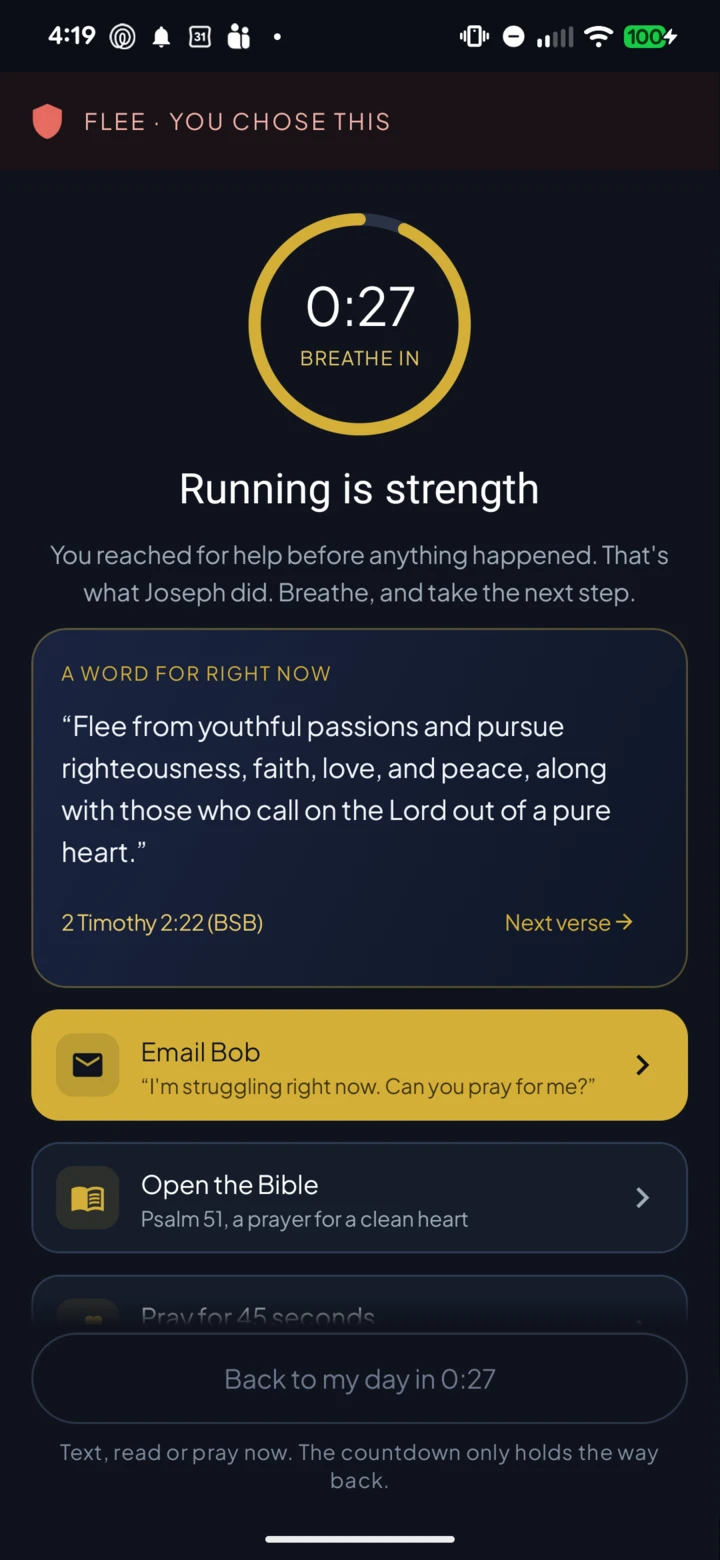
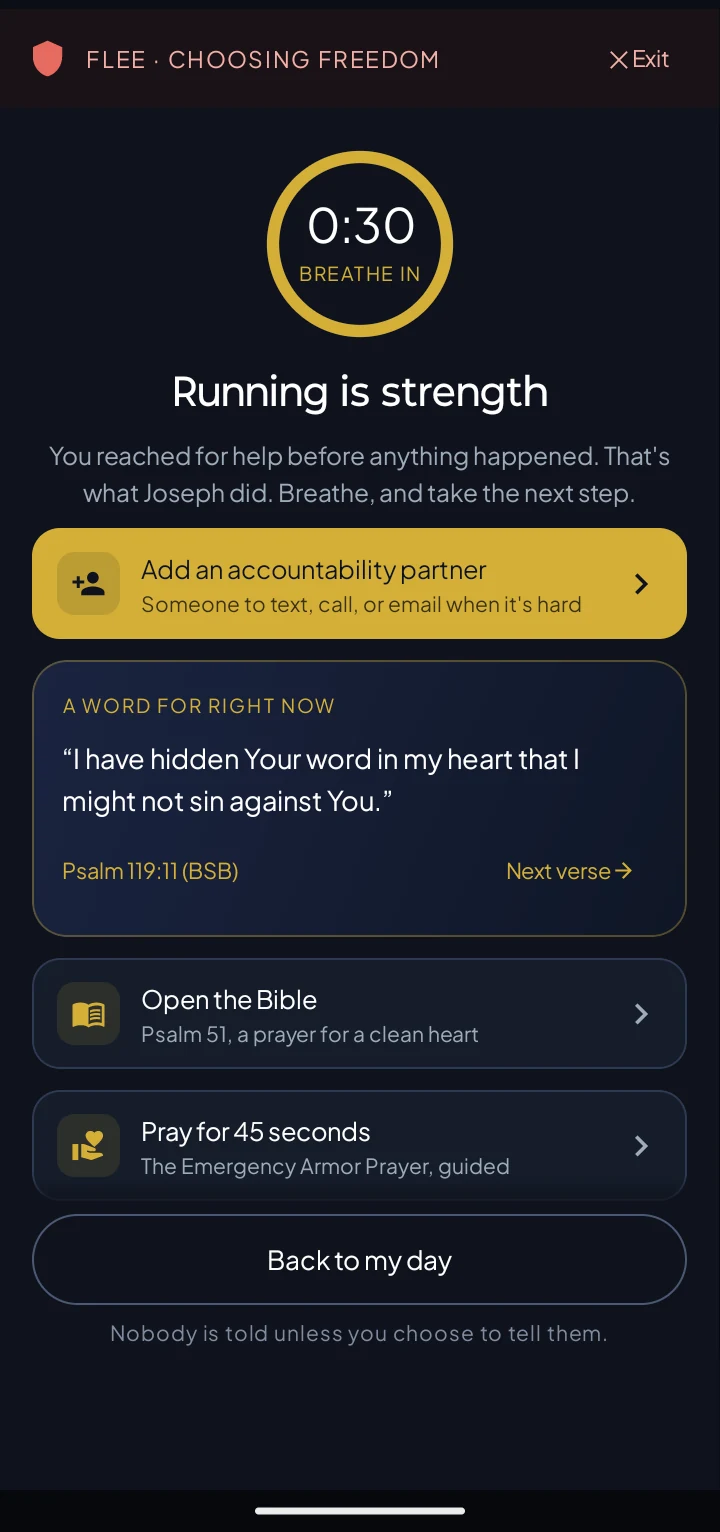
feat: showcase dual calm tech themes, 72h grace window, and status-bar-free mockups

diff --git a/index.html b/index.html
@@ -318,6 +318,48 @@
       height: 100%;
       object-fit: cover;
       object-position: top;
+      transition: opacity 0.25s ease;
+    }
+
+    /* Hero Theme Toggle */
+    .hero-theme-toggle {
+      display: inline-flex;
+      align-items: center;
+      gap: 6px;
+      background: rgba(15, 23, 42, 0.85);
+      border: 1px solid var(--border-color);
+      border-radius: 999px;
+      padding: 4px;
+      margin-bottom: 16px;
+      backdrop-filter: blur(8px);
+      box-shadow: 0 4px 16px rgba(0, 0, 0, 0.4);
+    }
+
+    .theme-pill {
+      display: inline-flex;
+      align-items: center;
+      gap: 6px;
+      padding: 6px 14px;
+      background: transparent;
+      border: 1px solid transparent;
+      border-radius: 999px;
+      color: var(--text-muted);
+      font-size: 0.82rem;
+      font-weight: 600;
+      cursor: pointer;
+      transition: all 0.2s ease;
+      font-family: var(--font-sans);
+    }
+
+    .theme-pill:hover {
+      color: var(--text-main);
+    }
+
+    .theme-pill.active {
+      background: var(--accent-gold-glow);
+      border-color: var(--border-glow);
+      color: var(--accent-gold-light);
+      box-shadow: 0 2px 8px rgba(245, 158, 11, 0.25);
     }
 
     /* Floating Stat Card */
@@ -948,6 +990,10 @@
             <svg width="18" height="18" viewBox="0 0 24 24" fill="currentColor"><path d="M12 2C6.48 2 2 6.48 2 12s4.48 10 10 10 10-4.48 10-10S17.52 2 12 2zm-2 15l-5-5 1.41-1.41L10 14.17l7.59-7.59L19 8l-9 9z"/></svg>
             <span>Accountability with a trusted friend</span>
           </div>
+          <div class="trust-badge-item">
+            <svg width="18" height="18" viewBox="0 0 24 24" fill="currentColor"><path d="M12 2C6.48 2 2 6.48 2 12s4.48 10 10 10 10-4.48 10-10S17.52 2 12 2zm-2 15l-5-5 1.41-1.41L10 14.17l7.59-7.59L19 8l-9 9z"/></svg>
+            <span>Dual Calm Tech Themes (Dark &amp; Light)</span>
+          </div>
         </div>
       </div>
 
@@ -960,9 +1006,20 @@
           <p>90 min of scrolling is enough time to read Romans and 1 Corinthians</p>
         </div>
 
-        <div class="phone-frame">
-          <div class="phone-notch"></div>
-          <img width="720" height="1488" src="assets/images/app-today.webp" alt="The Today screen: a greeting, a daily encouragement and Ephesians 5:15–17">
+        <div style="display: flex; flex-direction: column; align-items: center; z-index: 1;">
+          <div class="hero-theme-toggle" role="tablist" aria-label="Select app theme preview">
+            <button type="button" class="theme-pill active" id="theme-btn-dark" onclick="setHeroTheme('dark')">
+              🌙 Obsidian Dark
+            </button>
+            <button type="button" class="theme-pill" id="theme-btn-light" onclick="setHeroTheme('light')">
+              ☀ Warm Parchment
+            </button>
+          </div>
+
+          <div class="phone-frame">
+            <div class="phone-notch"></div>
+            <img id="hero-mockup-img" width="720" height="1532" src="assets/images/app-today.webp" alt="The Today screen: a greeting, a daily encouragement and Ephesians 5:15–17">
+          </div>
         </div>
 
         <div class="floating-card card-bottom">
@@ -1027,6 +1084,10 @@
           <ul class="feature-checklist">
             <li>
               <svg width="20" height="20" viewBox="0 0 24 24" fill="currentColor"><path d="M12 2C6.48 2 2 6.48 2 12s4.48 10 10 10 10-4.48 10-10S17.52 2 12 2zm-2 15l-5-5 1.41-1.41L10 14.17l7.59-7.59L19 8l-9 9z"/></svg>
+              <span><strong>Calm Tech Light &amp; Dark:</strong> seamlessly switch between Obsidian Dark for peaceful evening wind-downs and Warm Parchment Light for glare-free daytime reading that looks and feels like a physical paper Bible.</span>
+            </li>
+            <li>
+              <svg width="20" height="20" viewBox="0 0 24 24" fill="currentColor"><path d="M12 2C6.48 2 2 6.48 2 12s4.48 10 10 10 10-4.48 10-10S17.52 2 12 2zm-2 15l-5-5 1.41-1.41L10 14.17l7.59-7.59L19 8l-9 9z"/></svg>
               <span><strong>Honest numbers:</strong> based on real Bible reading times, never more than the time you actually spent.</span>
             </li>
             <li>
@@ -1057,11 +1118,15 @@
           <ul class="feature-checklist">
             <li>
               <svg width="20" height="20" viewBox="0 0 24 24" fill="currentColor"><path d="M12 2C6.48 2 2 6.48 2 12s4.48 10 10 10 10-4.48 10-10S17.52 2 12 2zm-2 15l-5-5 1.41-1.41L10 14.17l7.59-7.59L19 8l-9 9z"/></svg>
-              <span><strong>Check-in schedule:</strong> weekly, every other week or monthly, added to your calendar so you both remember.</span>
+              <span><strong>Check-in schedule &amp; calendar:</strong> weekly, every other week or monthly, exported directly to your device calendar so you both remember.</span>
             </li>
             <li>
               <svg width="20" height="20" viewBox="0 0 24 24" fill="currentColor"><path d="M12 2C6.48 2 2 6.48 2 12s4.48 10 10 10 10-4.48 10-10S17.52 2 12 2zm-2 15l-5-5 1.41-1.41L10 14.17l7.59-7.59L19 8l-9 9z"/></svg>
-              <span><strong>Private prep notes:</strong> jot down victories, HALT moments (hungry, angry, lonely, tired) and prayer needs. They stay on your phone.</span>
+              <span><strong>72-Hour Grace Window:</strong> if your meeting is delayed, active prep notes stay accessible with a 72-hour grace window to mark <em>✓ Yes, We Met</em> or reschedule (+3 days) before archiving.</span>
+            </li>
+            <li>
+              <svg width="20" height="20" viewBox="0 0 24 24" fill="currentColor"><path d="M12 2C6.48 2 2 6.48 2 12s4.48 10 10 10 10-4.48 10-10S17.52 2 12 2zm-2 15l-5-5 1.41-1.41L10 14.17l7.59-7.59L19 8l-9 9z"/></svg>
+              <span><strong>1-on-1 &amp; Small Groups:</strong> organize private prep notes (victories, HALT moments, prayer requests) for individual partners or small group accountability fellowships.</span>
             </li>
             <li>
               <svg width="20" height="20" viewBox="0 0 24 24" fill="currentColor"><path d="M12 2C6.48 2 2 6.48 2 12s4.48 10 10 10 10-4.48 10-10S17.52 2 12 2zm-2 15l-5-5 1.41-1.41L10 14.17l7.59-7.59L19 8l-9 9z"/></svg>
@@ -1069,7 +1134,7 @@
             </li>
             <li>
               <svg width="20" height="20" viewBox="0 0 24 24" fill="currentColor"><path d="M12 2C6.48 2 2 6.48 2 12s4.48 10 10 10 10-4.48 10-10S17.52 2 12 2zm-2 15l-5-5 1.41-1.41L10 14.17l7.59-7.59L19 8l-9 9z"/></svg>
-              <span><strong>Openness, not spying:</strong> once your partner accepts an invite, they get a short email for a few set events, for example if you turn a protection off or allow a website. Nothing else is shared.</span>
+              <span><strong>Openness, not spying:</strong> once your partner accepts an invite, they get a short email for a few set events, for example if you turn a protection off or allow a website. FLEE never emails partners.</span>
             </li>
           </ul>
         </div>
@@ -1100,6 +1165,10 @@
             <li>
               <svg width="20" height="20" viewBox="0 0 24 24" fill="currentColor"><path d="M12 2C6.48 2 2 6.48 2 12s4.48 10 10 10 10-4.48 10-10S17.52 2 12 2zm-2 15l-5-5 1.41-1.41L10 14.17l7.59-7.59L19 8l-9 9z"/></svg>
               <span><strong>Curated &amp; Custom Plans:</strong> follow 5 popular reading plans or build your own with quiet time reminders and daily pacing.</span>
+            </li>
+            <li>
+              <svg width="20" height="20" viewBox="0 0 24 24" fill="currentColor"><path d="M12 2C6.48 2 2 6.48 2 12s4.48 10 10 10 10-4.48 10-10S17.52 2 12 2zm-2 15l-5-5 1.41-1.41L10 14.17l7.59-7.59L19 8l-9 9z"/></svg>
+              <span><strong>Screen Awake (Aa toggle):</strong> keep your screen awake while reading through quiet times without mid-chapter lockouts.</span>
             </li>
             <li>
               <svg width="20" height="20" viewBox="0 0 24 24" fill="currentColor"><path d="M12 2C6.48 2 2 6.48 2 12s4.48 10 10 10 10-4.48 10-10S17.52 2 12 2zm-2 15l-5-5 1.41-1.41L10 14.17l7.59-7.59L19 8l-9 9z"/></svg>
@@ -1159,7 +1228,7 @@
             </li>
             <li>
               <svg width="20" height="20" viewBox="0 0 24 24" fill="currentColor"><path d="M12 2C6.48 2 2 6.48 2 12s4.48 10 10 10 10-4.48 10-10S17.52 2 12 2zm-2 15l-5-5 1.41-1.41L10 14.17l7.59-7.59L19 8l-9 9z"/></svg>
-              <span><strong>FLEE button</strong> (for moments of temptation): Scripture, a calming breathing prayer, and one tap to text or call your partner. Tapping FLEE never sends an alert email.</span>
+              <span><strong>FLEE Rescue &amp; Immediate Exit:</strong> in moments of temptation, one tap brings up Scripture anchors (Job 31:1, Psalm 119:11), a calming breathing prayer, and direct reach-out. Voluntary check-ins include an immediate top-right <em>✕ Exit</em>. FLEE adapts cleanly to light and dark themes and never emails partners.</span>
             </li>
             <li>
               <svg width="20" height="20" viewBox="0 0 24 24" fill="currentColor"><path d="M12 2C6.48 2 2 6.48 2 12s4.48 10 10 10 10-4.48 10-10S17.52 2 12 2zm-2 15l-5-5 1.41-1.41L10 14.17l7.59-7.59L19 8l-9 9z"/></svg>
@@ -1325,6 +1394,26 @@
             Yes. You choose which apps get the pause, and you can add your own blocked words and sites. You can also allow (whitelist) trusted websites you visit often—like Bible sites, news, or work tools—so the blocker stops scanning page words on those sites and avoids false alarms. Known adult sites can never be allowed, and if you have a partner, they&rsquo;re emailed the name of any site you trust.
           </div>
         </div>
+
+        <div class="faq-item">
+          <div class="faq-question">
+            <span>Does Redeemed Time support both Light and Dark themes?</span>
+            <span class="faq-icon">▼</span>
+          </div>
+          <div class="faq-answer">
+            Yes. Redeemed Time includes two custom-crafted Calm Tech themes: <strong>Obsidian Dark</strong> (ideal for evening devotions, low light, and battery savings) and <strong>Warm Parchment Light</strong> (designed with soft, glare-free paper tones reminiscent of a physical Bible, avoiding harsh blue/white glare). The app automatically adapts to your Android system setting or can be manually selected in Settings.
+          </div>
+        </div>
+
+        <div class="faq-item">
+          <div class="faq-question">
+            <span>How do check-in notes and the 72-hour grace window work?</span>
+            <span class="faq-icon">▼</span>
+          </div>
+          <div class="faq-answer">
+            Check-in notes help you arrive at your 1-on-1 or small group accountability meetings prepared, with space to log victories, HALT moments, and prayer requests. They stay 100% on your phone. If your scheduled meeting time passes, the app provides a generous 72-hour grace window to review your notes, celebrate victories, and mark <em>✓ Yes, We Met</em> or reschedule (+3 days) before notes are archived to your local on-device history.
+          </div>
+        </div>
       </div>
     </div>
   </section>
@@ -1422,7 +1511,7 @@
     </div>
   </footer>
 
-  <!-- Script for FAQ Interactive Accordion -->
+  <!-- Script for FAQ Interactive Accordion & Hero Theme Switcher -->
   <script>
     document.querySelectorAll('.faq-question').forEach(question => {
       question.addEventListener('click', () => {
@@ -1430,6 +1519,24 @@
         item.classList.toggle('active');
       });
     });
+
+    function setHeroTheme(theme) {
+      const img = document.getElementById('hero-mockup-img');
+      const darkBtn = document.getElementById('theme-btn-dark');
+      const lightBtn = document.getElementById('theme-btn-light');
+      if (!img) return;
+      if (theme === 'light') {
+        img.src = 'assets/images/app-today-light.webp';
+        img.alt = 'The Today screen in Warm Parchment Light theme: daytime reading with gentle, glare-free paper tones';
+        if (darkBtn) darkBtn.classList.remove('active');
+        if (lightBtn) lightBtn.classList.add('active');
+      } else {
+        img.src = 'assets/images/app-today.webp';
+        img.alt = 'The Today screen in Obsidian Dark theme: nighttime wind-down with OLED-friendly contrast';
+        if (lightBtn) lightBtn.classList.remove('active');
+        if (darkBtn) darkBtn.classList.add('active');
+      }
+    }
   </script>
 
   <!-- Cloudflare Web Analytics --><script type='module' src='https://static.cloudflareinsights.com/beacon.min.js' data-cf-beacon='{"token": "0ee308a269ea49819290a1e232ee87f7"}'></script><!-- End Cloudflare Web Analytics -->
